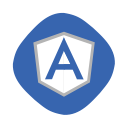
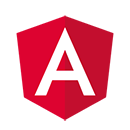
UPDATE-001 | final edits and such

diff --git a/public/index.html b/public/index.html
@@ -109,7 +109,7 @@
                         </div>
                         <div class='tools-list-item'>
                             <img src="build/images/dev-icons/angular.png" />
-                            <p>AngularJS</p>
+                            <p>Angular</p>
                         </div>
                         <div class='tools-list-item'>
                             <img src="build/images/dev-icons/vue.png" />
